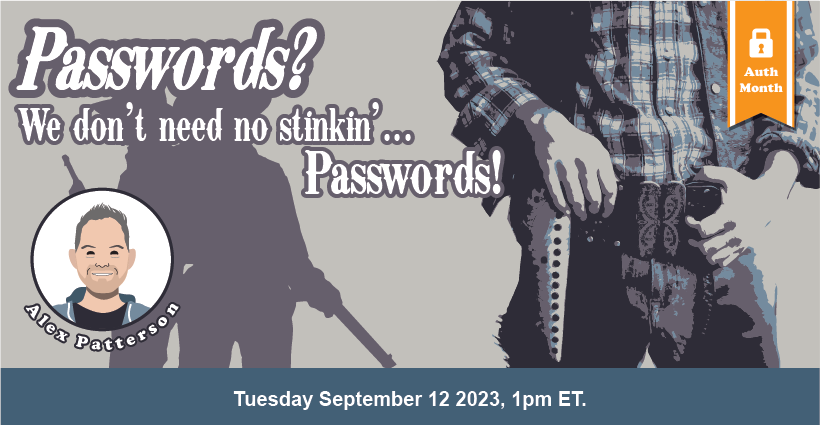
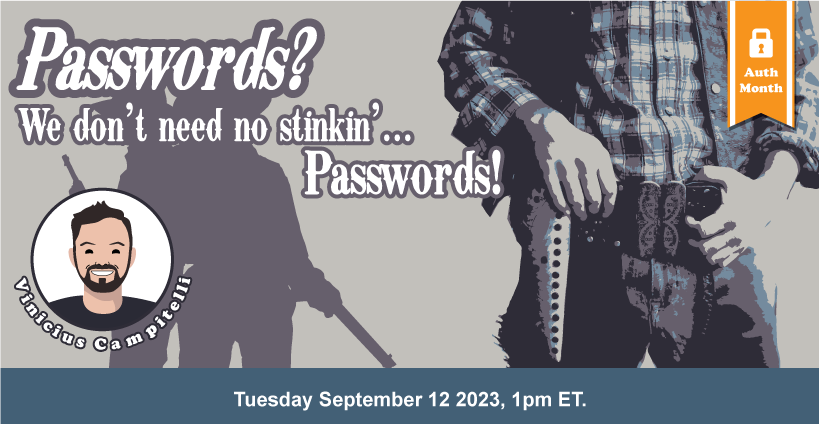
Updated speaker

diff --git a/content/events/we-dont-need-no-passwords.md b/content/events/we-dont-need-no-passwords.md
@@ -4,8 +4,8 @@ date: 2023-09-12T13:00:00-04:00
 end_date: 2023-09-12T14:00:00-04:00
 cost: 0
 homepage_banner: NoPassword-091223.png
-short_desc: Alex Patterson will show us options for building passwordless authentication into your applications and how to get started.
-description: Alex Patterson will show us options for building passwordless authentication into your applications and how to get started.
+short_desc: Vinicius Campitelli will show us options for building passwordless authentication into your applications and how to get started.
+description: Vinicius Campitelli will show us options for building passwordless authentication into your applications and how to get started.
 embed_url: https://crowdcast.io/c/no-passwords
 sessions:
   - we-dont-need-no-passwords
@@ -13,4 +13,4 @@ draft: false
 featured: true
 ---
 
-The username and password have been the standard secure way to log into software seemingly since the dawn of time. Developers don't like building and managing password-based auth and users don't like having to create endless passwords. But new methods of handling passwordless authentication have emerged in recent years to upend this model. In this session, Alex Patterson will show us options for passwordless authentication and how to get started.
+The username and password have been the standard secure way to log into software seemingly since the dawn of time. Developers don't like building and managing password-based auth and users don't like having to create endless passwords. But new methods of handling passwordless authentication have emerged in recent years to upend this model. In this session, Vinicius Campitelli will show us options for passwordless authentication and how to get started.

diff --git a/content/speakers/vinicius-campitelli.md b/content/speakers/vinicius-campitelli.md
@@ -1,0 +1,15 @@
+---
+title: Vinicius Campitelli
+date: 2019-07-24T18:52:51-04:00
+speaker_image: ViniciusCampitelli.jpg
+job_title:  Developer Relations Engineer at FusionAuth
+twitter: vcampitelli
+GitHub:  vcampitelli
+website: https://viniciuscampitelli.com/cv/en/
+draft: false
+---
+
+Vinicius Campitelli has been a software developer for 15 years, working on dozens of projects in areas such as email marketing, network automation, cybersecurity, video streaming and e-learning, where he even founded a company.
+
+As a Developer Relations Engineer at FusionAuth, he helps developers build secure and scalable authentication and authorization solutions.
+He is also one of the organizers of a local PHP community in Sao Paulo, Brazil.

diff --git a/content/sessions/we-dont-need-no-passwords.md b/content/sessions/we-dont-need-no-passwords.md
@@ -2,7 +2,7 @@
 title: We Don’t Need No Stinking Passwords
 date: 2023-09-12T13:00:00-04:00
 speakers:
-  - alex-patterson
+  - vinicius-campitelli
 recordings:
   crowdcast:
     url: https://www.crowdcast.io/c/no-passwords
